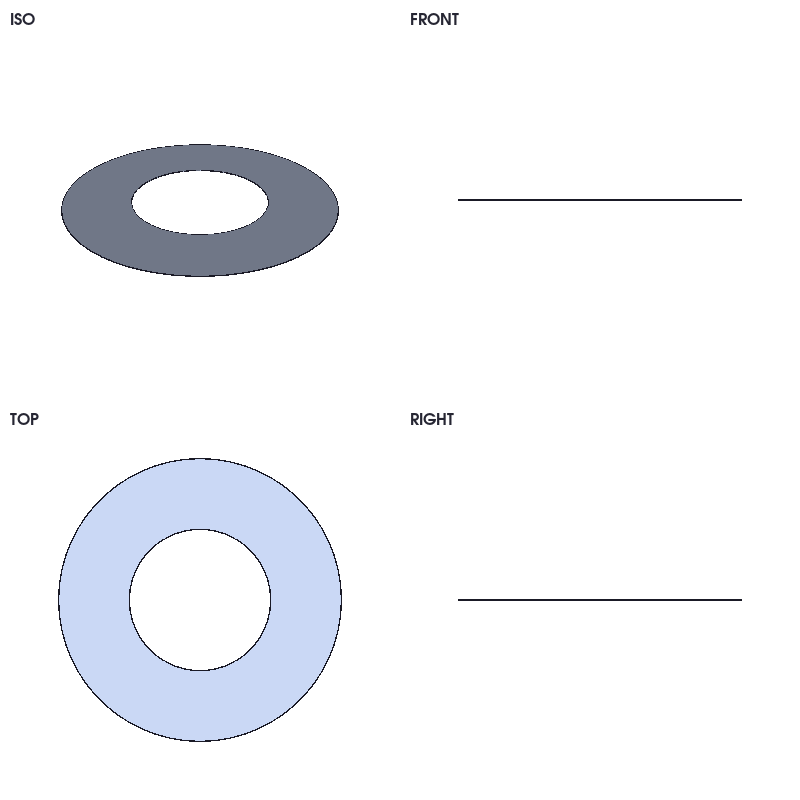
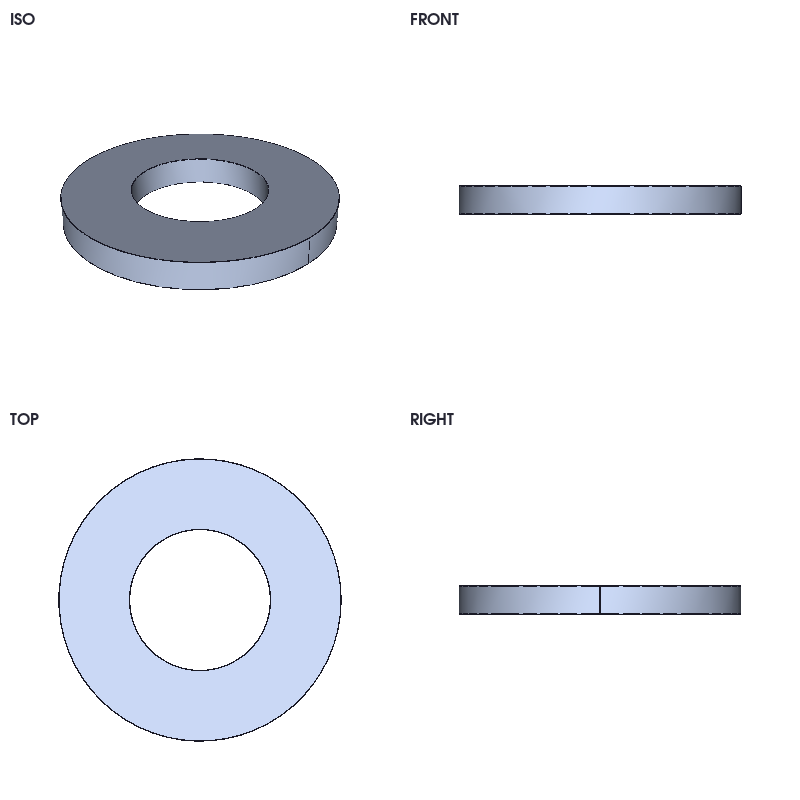
seed_06_washer: fix h=0.003 → 3.0, disambiguate brief
Two dataset bugs caught by the first real baseline run:

1. washer build_kwargs had h=0.003 (micrometers) instead of 3.0 mm.
   Reference volume was 1.59 mm³; agent correctly built 1590 mm³ and
   was marked wrong (L1 fail → composite 0.3).

2. Brief "centered on origin" was ambiguous about Z-centering. Agent
   built z=[-1.5,1.5], reference built z=[0,3]. Now matches the
   standoff brief phrasing ("base on the XY plane centered on origin").

Also: scoreboard entry 1776533407 marked invalid: dataset-bug
contamination. Add eval/make_variant.py to scaffold future variants.

Changed region(s): [[0.0625, 0.1562, 0.4375, 0.375], [0.5625, 0.7188, 0.9375, 0.7812], [0.5625, 0.2188, 0.9375, 0.2812]]

diff --git a/eval/make_variant.py b/eval/make_variant.py
@@ -1,0 +1,80 @@
+"""Seed a new variant directory from the current baseline SKILL.md.
+
+Usage:
+    eval/.venv/bin/python eval/make_variant.py v001-describe-after-every-feature \
+        --parent baseline \
+        --desc "SKILL: elevate describe_part_studio from 'after every feature' to a hard-stop requirement"
+
+Creates:
+    eval/variants/v001-.../skills/onshape/SKILL.md       (copy of parent's SKILL.md)
+    eval/variants/v001-.../VARIANT.md                    (mutation description + parent + timestamp)
+
+Then you edit the SKILL.md in-place and run run_eval_set.py --variant-id v001-...
+"""
+
+from __future__ import annotations
+
+import argparse
+import json
+import shutil
+import sys
+import time
+from pathlib import Path
+
+REPO = Path(__file__).resolve().parents[1]
+VARIANTS = REPO / "eval" / "variants"
+BASELINE_SKILL = REPO / "skills" / "onshape" / "SKILL.md"
+
+
+def _resolve_parent_skill(parent_id: str) -> Path:
+    if parent_id == "baseline":
+        return BASELINE_SKILL
+    p = VARIANTS / parent_id / "skills" / "onshape" / "SKILL.md"
+    if not p.exists():
+        raise SystemExit(f"parent variant not found: {p}")
+    return p
+
+
+def main() -> int:
+    p = argparse.ArgumentParser()
+    p.add_argument("variant_id", help="e.g. v001-describe-after-every-feature")
+    p.add_argument("--parent", default="baseline",
+                   help="variant_id of the parent to fork from (default: baseline)")
+    p.add_argument("--desc", required=True, help="One-line mutation description")
+    args = p.parse_args()
+
+    target = VARIANTS / args.variant_id
+    if target.exists():
+        raise SystemExit(f"variant dir already exists: {target}")
+
+    src = _resolve_parent_skill(args.parent)
+    dst = target / "skills" / "onshape" / "SKILL.md"
+    dst.parent.mkdir(parents=True, exist_ok=True)
+    shutil.copy2(src, dst)
+
+    meta = {
+        "variant_id": args.variant_id,
+        "parent_variant_id": args.parent,
+        "created_at": int(time.time()),
+        "mutation_description": args.desc,
+        "source_skill": str(src.relative_to(REPO)),
+    }
+    (target / "VARIANT.md").write_text(
+        f"# {args.variant_id}\n\n"
+        f"- parent: `{args.parent}`\n"
+        f"- created: {meta['created_at']}\n"
+        f"- source: `{meta['source_skill']}`\n\n"
+        f"## Mutation\n\n{args.desc}\n\n"
+        f"## Metadata (JSON)\n\n```json\n{json.dumps(meta, indent=2)}\n```\n"
+    )
+    print(f"created {target.relative_to(REPO)}")
+    print(f"  skill: {dst.relative_to(REPO)}")
+    print(f"edit the skill, then:")
+    print(f"  eval/.venv/bin/python eval/runner/run_eval_set.py \\")
+    print(f"      --variant-id {args.variant_id} --parent-variant-id {args.parent} \\")
+    print(f"      --mutation-description {json.dumps(args.desc)}")
+    return 0
+
+
+if __name__ == "__main__":
+    sys.exit(main())

diff --git a/eval/bootstrap_seed.py b/eval/bootstrap_seed.py
@@ -437,10 +437,10 @@ SPECS: list[BriefSpec] = [
         brief_id="seed_06_washer",
         brief_text=(
             "Washer: outer diameter 30 mm, inner diameter 15 mm, thickness 3 mm. "
-            "Axis along world Z, centered on origin."
+            "Axis along world Z, base on the XY plane centered on origin."
         ),
         difficulty_tier="easy",
-        build_fn=washer, build_kwargs={"od": 30.0, "id_": 15.0, "h": 0.003},
+        build_fn=washer, build_kwargs={"od": 30.0, "id_": 15.0, "h": 3.0},
     ),
     BriefSpec(
         brief_id="seed_07_standoff",

diff --git a/eval/SESSION_NOTES.md b/eval/SESSION_NOTES.md
@@ -40,3 +40,37 @@ CLAUDE.md + eval/README.md now pinned. Directory scaffold in place. Next cold-se
 ## Rulings from Shef
 
 - **2026-04-18**: pip-only eval deps (`cadquery-ocp`). Datasets via direct `git clone`.
+
+## 2026-04-18 — Phase 3 first baseline run, found dataset bug
+
+First real baseline run (1776533407-baseline) on seed_04, 05, 06.
+- seed_04_plate_one_hole: composite 1.0
+- seed_05_plate_four_holes: composite 1.0
+- seed_06_washer: composite 0.3 **due to dataset bug**, not agent failure
+
+Two dataset bugs in seed_06_washer:
+
+1. `build_kwargs={"h": 0.003}` — thickness was 3 micrometers instead
+   of 3 mm. Reference washer volume was 1.59 mm³; agent built a proper
+   1590 mm³ washer and was marked wrong. Fix: `h: 3.0`.
+
+2. Brief said "Axis along world Z, centered on origin." The reference
+   generator (cylinder + subtract) extrudes z=[0, h], not z=[-h/2, h/2].
+   Agent sensibly interpreted "centered on origin" as fully centered
+   (z=-1.5 to 1.5) while the reference was bottom-on-XY-plane. Disagreement
+   shows up as L4 IoU ≈ 0.33 (volumes match, positions offset by h/2).
+   Fix: tightened brief to match the standoff brief's phrasing
+   ("base on the XY plane centered on origin").
+
+Also: bootstrap_seed.py rewrites MANIFEST.json wholesale when rerun.
+That clobbers the NIST + Model Mania entries. Left as known issue;
+patched seed_06 surgically in MANIFEST instead of letting bootstrap
+overwrite. TODO: make bootstrap_seed.py merge rather than replace.
+
+First scoreboard entry (1776533407) flagged `invalid: true`. Launching
+rerun next.
+
+**Lesson for the loop**: regressions in the dataset are invisible to
+the loop agent and corrupt the signal. The grader catches agent bugs;
+only human review catches reference bugs. Phase 3's manual-read pass
+is load-bearing.
